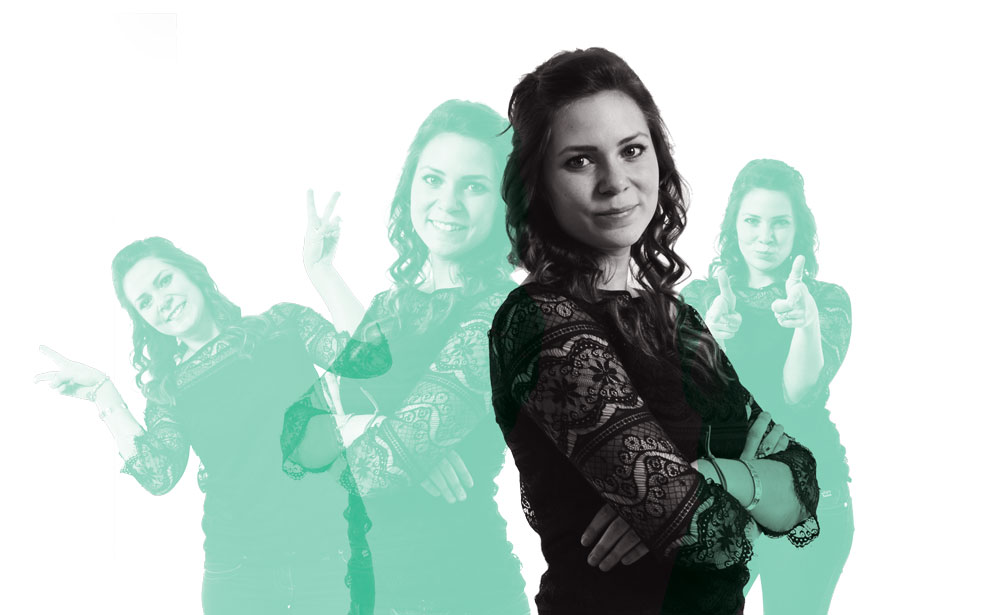
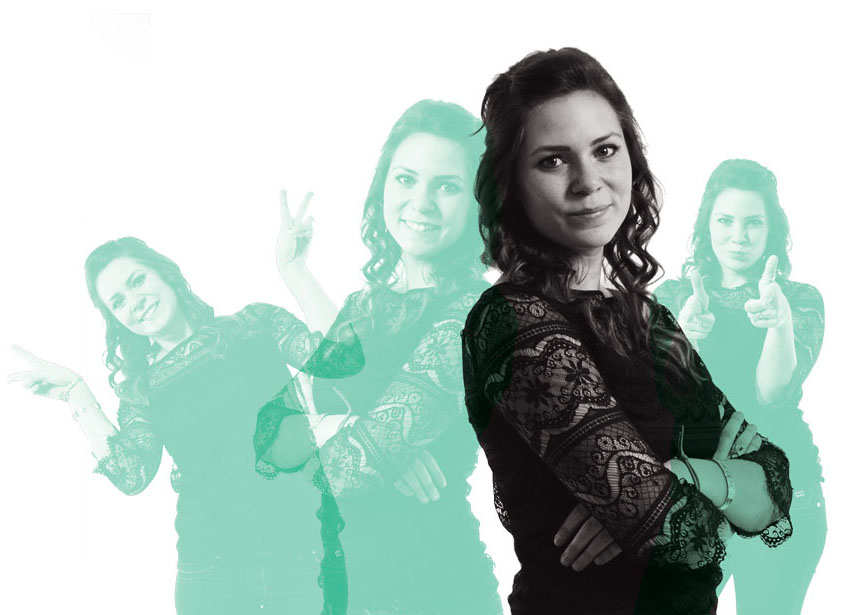
fix img width

diff --git a/css/general.css b/css/general.css
@@ -72,6 +72,8 @@ h2{
 	font-weight: 400;
 	font-size: 25px;
 	text-align: center;
+	margin-top: 0;
+	padding-top: 1em;
 }
 
 p{
@@ -177,11 +179,13 @@ ul#nav-list li a:active {
 
 .about-section img{
 	display: inline-block;
-	width: 100%;
+	width: 80%;
+	margin: auto 0;
 	text-align: center;
-	padding: 3px;
-}
+	margin-left: 25px;
+	margin-bottom: -4px;
 
+}
 
 /*--------------- Skills section */
 
@@ -452,6 +456,10 @@ h1{
 	margin-bottom: 1.5em;
 }
 
+.about-section img{
+	margin-left: 33px;
+}
+
 .design-section{
 	padding-top: 4em;
 }
@@ -508,11 +516,6 @@ h1{
 .photography-section p{
 	padding-left: 3em;
 	padding-right: 3em;
-}
-
-.my-photos{
-	max-width: 470px;
-	margin: 0 auto;
 }
 
 .skill-section{
@@ -615,6 +618,12 @@ h1{
 	font-size: 20px;
 }
 
+.about-section img{
+	margin-left: 55px;
+	padding-bottom: 1em;
+}
+
+
 .header-section{
 	padding-right: 40px;
 }
@@ -638,11 +647,6 @@ h1{
 	max-width: 600px;
 }
 
-.my-photos{
-	max-width: 500px;
-	margin: 0 auto;
-}
-
 }
 
 /* Large screen 700 px */
@@ -654,6 +658,11 @@ h1{
 
 .about-section p{
 	padding: 0 80px 0 80px;
+}
+
+.about-section img{
+	margin-left: 55px;
+	padding-bottom: 2em;
 }
 
 .skill-icon{
@@ -686,14 +695,6 @@ h1{
 	font-size: 20px;
 }
 
-.about-section img{
-	display: inline-block;
-	width: 75%;
-	text-align: center;
-	margin-left: 130px;
-	padding-bottom: 2em;
-}
-
 .skill-section{
 	max-width: 700px;
 }
@@ -702,6 +703,11 @@ h1{
 	max-width: 700px;
 	margin: 0 auto;
 	padding: 10px;
+}
+
+.about-section img{
+	margin-left: 70px;
+	padding-bottom: 2em;
 }
 
 .design-section p{
@@ -725,6 +731,12 @@ h1{
 
 .about-section p{
 	max-width: 700px;
+}
+
+.about-section img{
+	max-width: 70%;
+	margin-left: 120px;
+	padding-bottom: 2em;
 }
 
 .quote{
@@ -755,6 +767,12 @@ h1{
 	font-size: 25px;
 }
 
+.about-section img{
+	max-width: 50%;
+	margin-left: 330px;
+	padding-bottom: 2em;
+}
+
 .quote{
 	width: 60%;
 	padding-bottom: 20px;
@@ -762,11 +780,6 @@ h1{
 
 .photo-img{
 	max-width: 80%;
-}
-
-.about-section img{
-	padding-left: 140px;
-	width: 70%;
 }
 
 }
